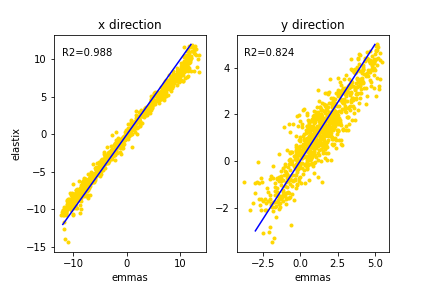
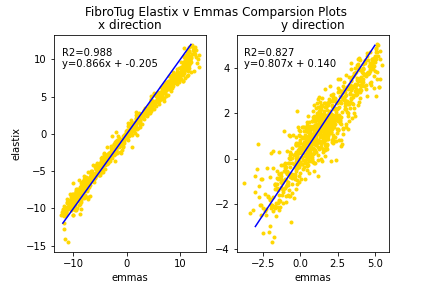
Improved comparison graphs

diff --git a/in_silicoTest/comparsionPlot_elastix.py b/in_silicoTest/comparsionPlot_elastix.py
@@ -47,24 +47,46 @@ analytical_disp = {}
 analytical_disp['x'] = analytical_x[x_41, y_41]
 analytical_disp['y'] = analytical_y[x_41, y_41]
 
+#r^2 values
 r2_x = linregress(analytical_disp['x'],  elastix_disp['x']).rvalue**2
 r2_y = linregress(analytical_disp['y'],  elastix_disp['y']).rvalue**2
 
+#error
+disp_analytical = np.vstack([analytical_disp['x'], analytical_disp['y']]).T
+disp_elastix = np.vstack([elastix_disp['x'], elastix_disp['y']]).T
+error_elastix = np.linalg.norm(disp_analytical-disp_elastix)
+
+#linear regression
+lres_x = linregress(analytical_disp['x'],  elastix_disp['x'])
+slope_x = lres_x.slope
+intercept_x = lres_x.intercept
+
+lres_y = linregress(analytical_disp['y'],  elastix_disp['y'])
+slope_y = lres_y.slope
+intercept_y = lres_y.intercept
+
+#plotting
 fig, axs = plt.subplots(1, 2)
 axs[0].scatter(analytical_disp['x'], elastix_disp['x'], marker = '.', color='gold')
 x = [-10,10]
 axs[0].plot(x, x, color = 'blue')
 axs[0].set_title('x direction')
 axs[0].annotate('R2=%2.3f' % r2_x, (0.05,0.9), xycoords='axes fraction')
+axs[0].annotate('y=%2.3f' % slope_x + 'x + %2.3f' % intercept_x, (0.05,0.85), xycoords='axes fraction')
 axs[0].set_xlabel("analytical")
 axs[0].set_ylabel("elastix")
 
 axs[1].scatter(analytical_disp['y'], elastix_disp['y'], marker = '.', color='gold')
-x2 = [-7,2]
+x2 = [-8,2]
 axs[1].plot(x2, x2, color = 'blue')
 axs[1].set_title('y direction')
 axs[1].annotate('R2=%2.3f' % r2_y, (0.05,0.9), xycoords='axes fraction')
+axs[1].annotate('y=%2.3f' % slope_y + 'x + %2.3f' % intercept_y, (0.05,0.85), xycoords='axes fraction')
 axs[1].set_xlabel("analytical")
+
+fig.suptitle(' In-Silico Elastix v Analytical Comparsion Plots', fontsize=12)
+txt="error: %2.3f" % error_elastix
+plt.figtext(0.5, -0.01, txt, wrap=True, horizontalalignment='center', fontsize=9)
 
 plt.savefig('comparisionPlots/Analytical_v_Elastics_plot.png')
 

diff --git a/in_silicoTest/comparsionPlot_emmas.py b/in_silicoTest/comparsionPlot_emmas.py
@@ -59,6 +59,21 @@ analytical_disp = {}
 analytical_disp['x'] = analytical_x[x_41, y_41]
 analytical_disp['y'] = analytical_y[x_41, y_41]
 
+#error
+disp_analytical = np.vstack([analytical_disp['x'], analytical_disp['y']]).T
+disp_emmas = np.vstack([disp['x'], disp['y']]).T
+error_emmas = np.linalg.norm(disp_analytical-disp_emmas)
+
+#linear regression
+lres_x = linregress(analytical_disp['x'],  disp['x'])
+slope_x = lres_x.slope
+intercept_x = lres_x.intercept
+
+lres_y = linregress(analytical_disp['y'],  disp['y'])
+slope_y = lres_y.slope
+intercept_y = lres_y.intercept
+
+#r^2 values
 r2_x = linregress(disp['x'],  analytical_disp['x']).rvalue**2
 r2_y = linregress(disp['y'],  analytical_disp['y']).rvalue**2
 
@@ -66,8 +81,10 @@ fig, axs = plt.subplots(1, 2)
 axs[0].scatter(analytical_disp['x'], disp['x'], marker = '.', color='gold')
 x = [-10,10]
 axs[0].plot(x, x, color = 'blue')
+axs[0].set_yticks(np.arange(min(x), max(x)+1, 2.5))
 axs[0].set_title('x direction')
 axs[0].annotate('R2=%2.3f' % r2_x, (0.05,0.9), xycoords='axes fraction')
+axs[0].annotate('y=%2.3f' % slope_x + 'x + %2.3f' % intercept_x, (0.05,0.85), xycoords='axes fraction')
 axs[0].set_ylabel("emmas")
 axs[0].set_xlabel("analytical")
 
@@ -76,7 +93,12 @@ x2 = [-8,2]
 axs[1].plot(x2, x2, color = 'blue')
 axs[1].set_title('y direction')
 axs[1].annotate('R2=%2.3f' % r2_y, (0.05,0.9), xycoords='axes fraction')
+axs[1].annotate('y=%2.3f' % slope_y + 'x + %2.3f' % intercept_y, (0.05,0.85), xycoords='axes fraction')
 axs[1].set_xlabel("analytical")
+
+fig.suptitle(' In-Silico Emmas v Analytical Comparsion Plots', fontsize=12)
+txt="error: %2.3f" % error_emmas
+plt.figtext(0.5, -0.01, txt, wrap=True, horizontalalignment='center', fontsize=9)
 
 plt.savefig('comparisionPlots/Emma_v_Analytical_plot.png')
 

diff --git a/fibrotug_2/comparsionPlot.py b/fibrotug_2/comparsionPlot.py
@@ -64,6 +64,16 @@ elastix_disp = {}
 elastix_disp['x'] = elastix_x[x_25, y_25]
 elastix_disp['y'] = elastix_y[x_25, y_25]
 
+#linear regression
+lres_x = linregress(disp['x'],  elastix_disp['x'])
+slope_x = lres_x.slope
+intercept_x = lres_x.intercept
+
+lres_y = linregress(disp['y'],  elastix_disp['y'])
+slope_y = lres_y.slope
+intercept_y = lres_y.intercept
+
+#r^2
 r2_x = linregress(disp['x'],  elastix_disp['x']).rvalue**2
 r2_y = linregress(disp['y'],  elastix_disp['y']).rvalue**2
 
@@ -73,6 +83,7 @@ x = [-12,12]
 axs[0].plot(x, x, color = 'blue')
 axs[0].set_title('x direction')
 axs[0].annotate('R2=%2.3f' % r2_x, (0.05,0.9), xycoords='axes fraction')
+axs[0].annotate('y=%2.3f' % slope_x + 'x + %2.3f' % intercept_x, (0.05,0.85), xycoords='axes fraction')
 axs[0].set_xlabel("emmas")
 axs[0].set_ylabel("elastix")
 
@@ -81,7 +92,10 @@ x2 = [-3,5]
 axs[1].plot(x2, x2, color = 'blue')
 axs[1].set_title('y direction')
 axs[1].annotate('R2=%2.3f' % r2_y, (0.05,0.9), xycoords='axes fraction')
+axs[1].annotate('y=%2.3f' % slope_y + 'x + %2.3f' % intercept_y, (0.05,0.85), xycoords='axes fraction')
 axs[1].set_xlabel("emmas")
+
+fig.suptitle('FibroTug Elastix v Emmas Comparsion Plots', fontsize=12)
 
 plt.savefig('comparisionPlots/Emma_v_Elastics_plot.png')
 
